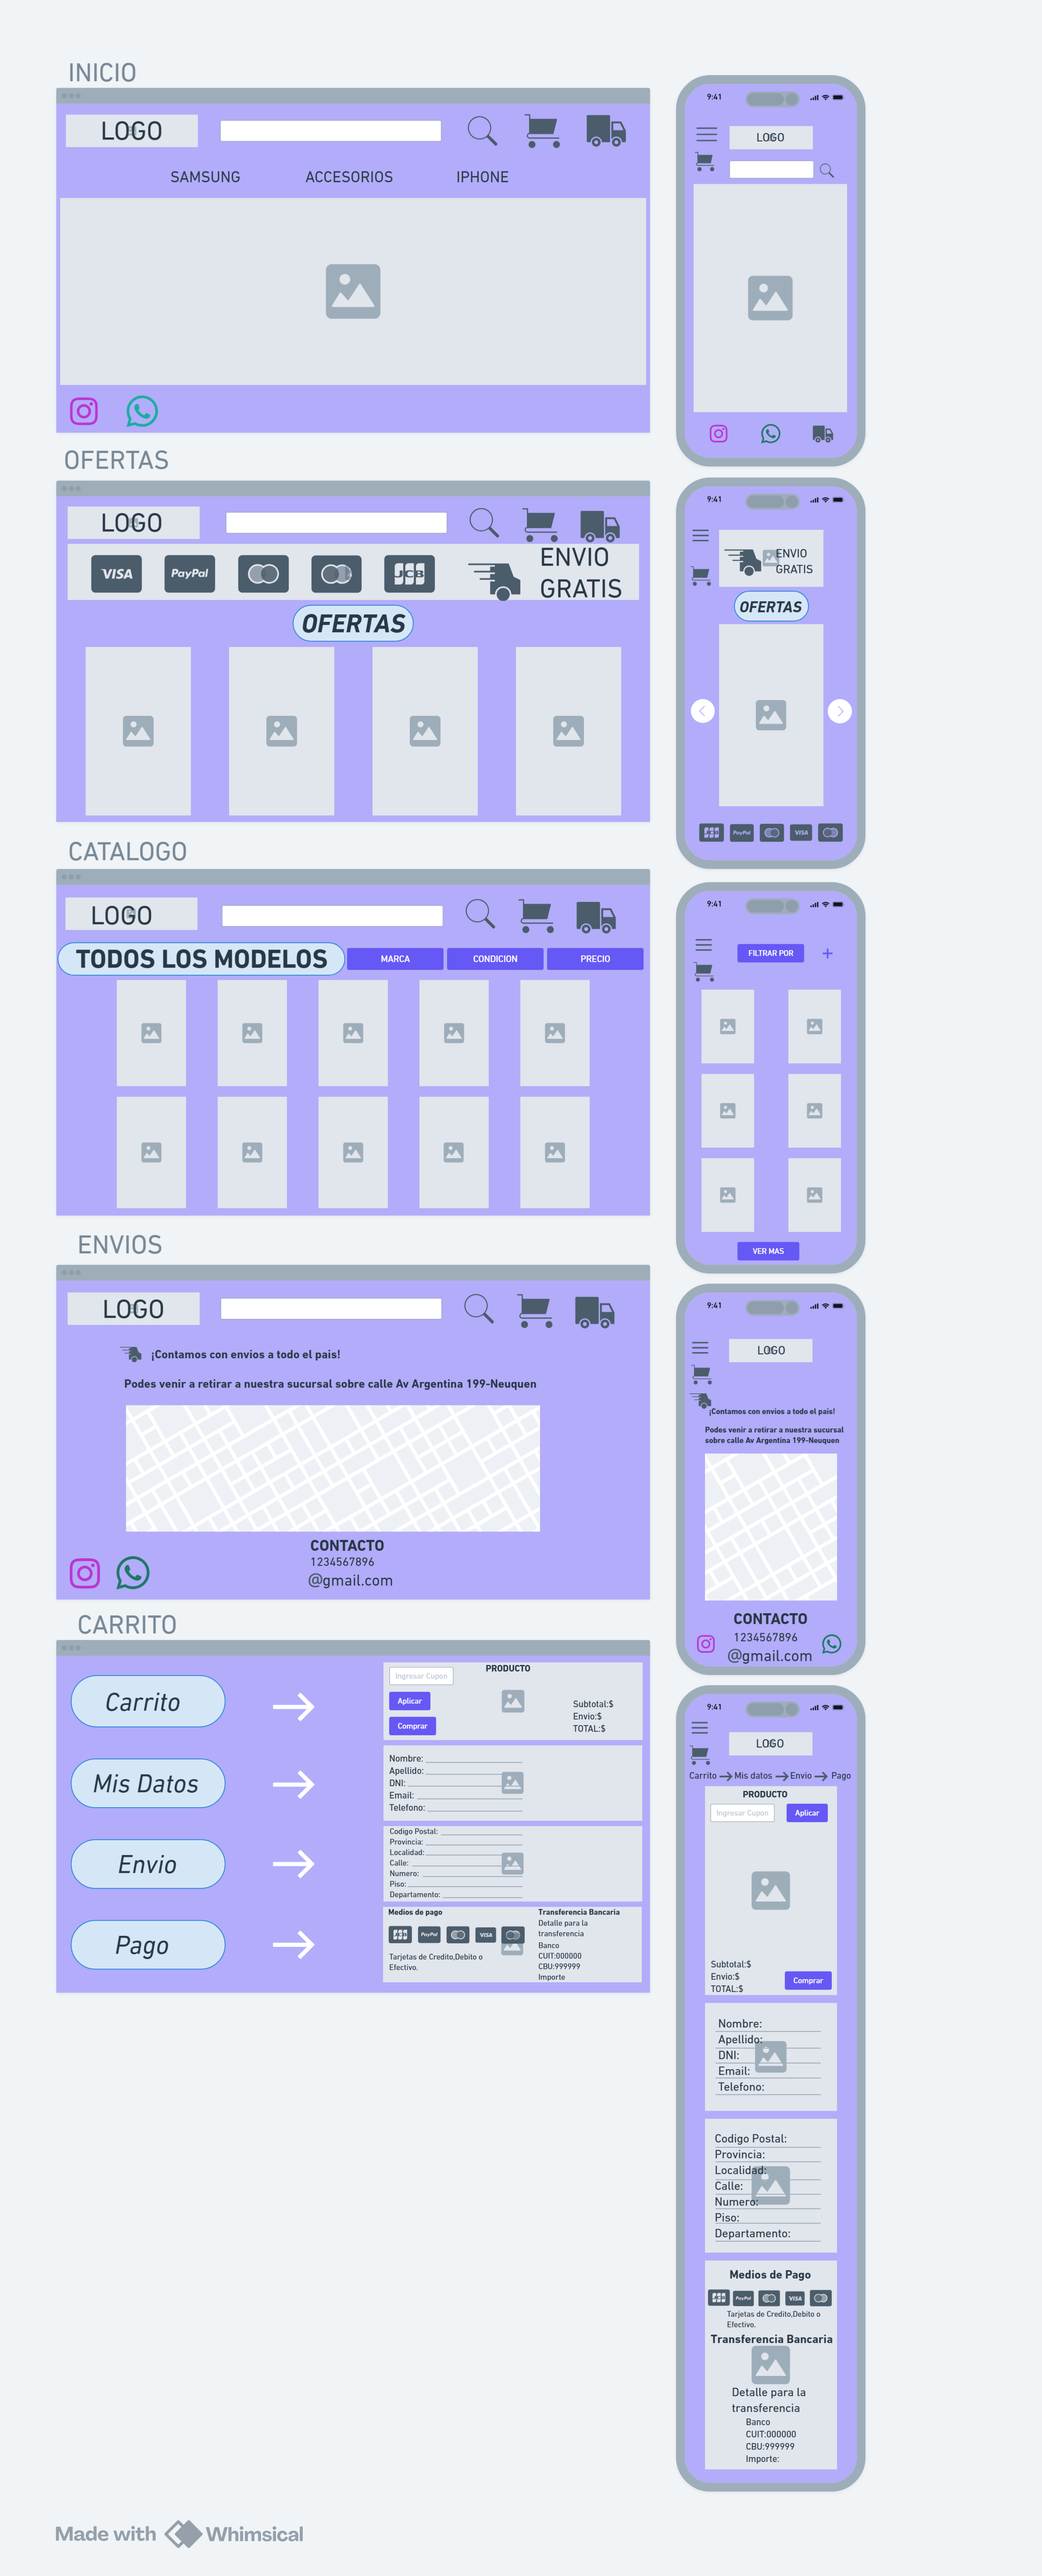
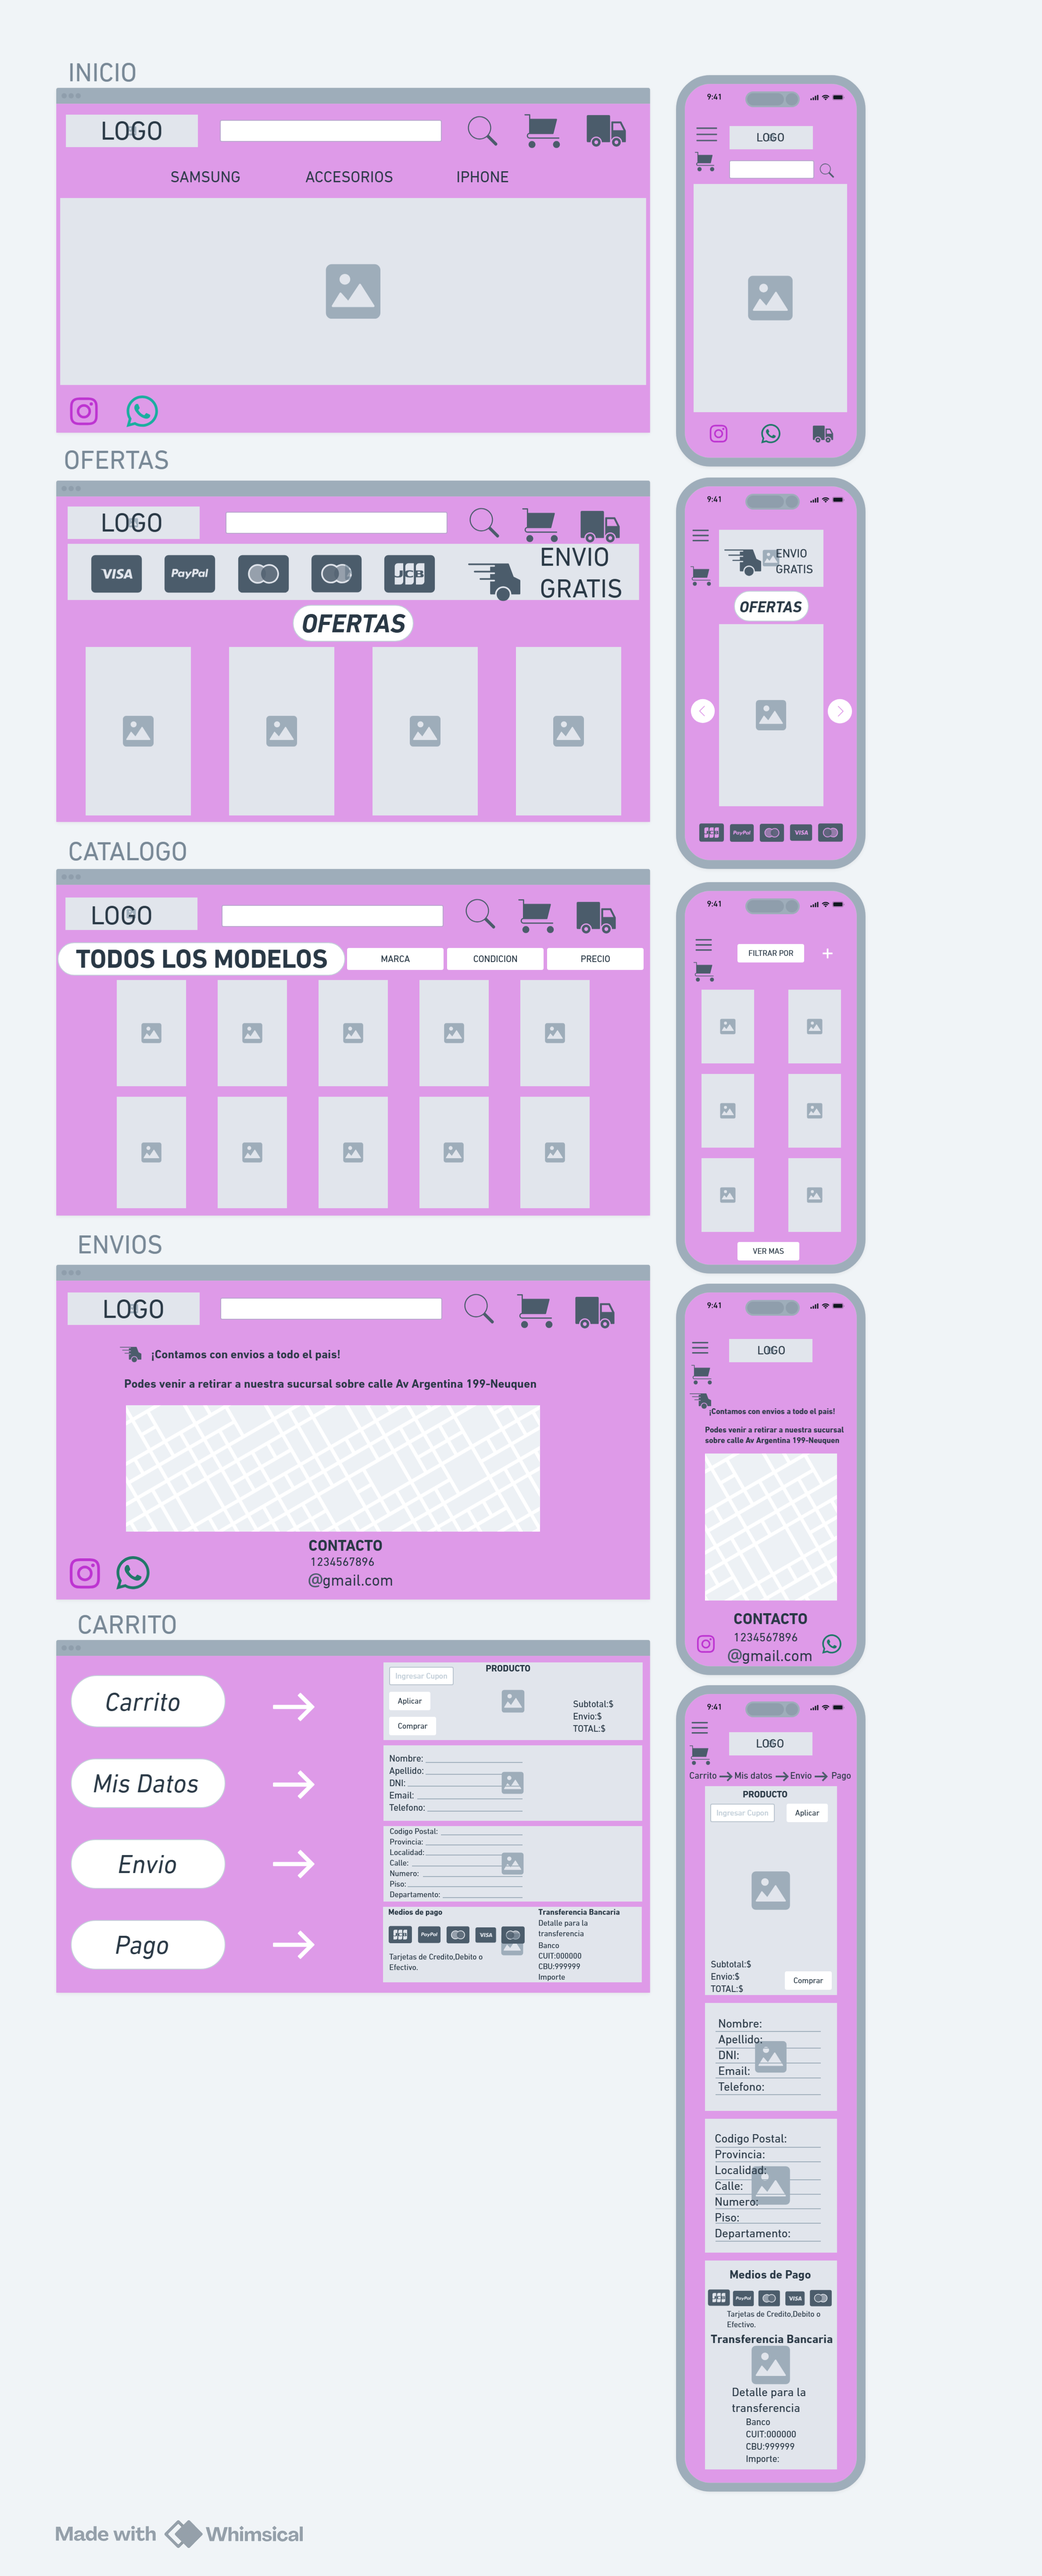
entrega n3 87900

Changed region(s): [[0.0312, 0.0312, 0.6232, 0.7794], [0.6543, 0.0312, 0.8413, 0.9664]]

diff --git a/scss/style.scss b/scss/style.scss
@@ -4,6 +4,7 @@
     src: url(../assets/fonts/Roboto-Bold.ttf);
 }
 
+/*Variables*/
 $tipografia-ppal:'Poppins', sans-serif;
 $tipografia-secund: 'Roboto-Bold', sans-serif;
 
@@ -13,7 +14,7 @@ $tipografia-secund: 'Roboto-Bold', sans-serif;
     box-sizing: border-box;
 }
 
-/*extend*/
+/*Extend*/
 %iconos-redes {
     font-size: 30px;
 }
@@ -24,7 +25,7 @@ ul {
 }
 
 li>a {
-    color: rgb(55, 111, 214);
+    color: rgb(255, 255, 255);
     text-decoration: none;
     font-size: 20px;
     padding: 8px 12px;
@@ -32,13 +33,13 @@ li>a {
 }
 
 h1 {
-    color: rgb(131, 54, 167);
+    color: rgb(168, 83, 119);
 }
 
 body {
     text-align: center;
     background-size: contain;
-    background-color: rgb(183, 138, 224);
+    background-color: rgb(168, 83, 119);
     font-family: "Poppins", sans-serif;
     font-weight: 600;
     font-style: oblique;
@@ -47,7 +48,16 @@ body {
 
 #primerfondo {
     background-image: url(../assets/img/inicio.JPG);
-    height: 400px;
+    height: 500px;
+    margin: auto;
+    background-position: center;
+    background-repeat: no-repeat;
+    background-size: contain;
+}
+
+#quintofondo {
+    background-image: url(../assets/img/iphone14promax.JPG.jpg);
+    height: 500px;
     margin: auto;
     background-position: center;
     background-repeat: no-repeat;
@@ -55,7 +65,7 @@ body {
 }
 
 header, footer {
-    background-color: rgb(132, 54, 167);
+    background-color: rgb(119, 19, 61);
 }
 
 .fa-facebook {
@@ -71,16 +81,16 @@ header, footer {
 
 .fa-instagram { 
     @extend %iconos-redes;
-    color: rgb(255, 69, 171);
+    color: rgb(201, 19, 95);
    
 }
 
+/*Ejemplo Anidacion*/
 .img-scale {
     transition: transform 0.3 ease;
-}
-
-.img-scale:hover {
-    transform: scale(1.5, 1.5);
+    &:hover {
+        transform: scale(1.5, 1.5);
+    }
 }
 
 .gridArea {
@@ -90,7 +100,7 @@ header, footer {
     width: 90%;
     margin: auto;
     position: relative;
-    background-color: rgb(55, 111, 214);
+    background-color: rgb(80, 80, 80);
     padding: 10px;
     justify-items: center;
     align-items: center;
@@ -99,6 +109,10 @@ header, footer {
 img {
     max-width: 100%;
     height: auto;
+}
+
+.btn-pri {
+    background-color: rgb(119, 19, 61);
 }
 
 /*Inicio Desktop*/

diff --git a/css/style.css b/css/style.css
@@ -20,7 +20,7 @@ ul {
 }
 
 li > a {
-  color: rgb(55, 111, 214);
+  color: rgb(255, 255, 255);
   text-decoration: none;
   font-size: 20px;
   padding: 8px 12px;
@@ -28,13 +28,13 @@ li > a {
 }
 
 h1 {
-  color: rgb(131, 54, 167);
+  color: rgb(168, 83, 119);
 }
 
 body {
   text-align: center;
   background-size: contain;
-  background-color: rgb(183, 138, 224);
+  background-color: rgb(168, 83, 119);
   font-family: "Poppins", sans-serif;
   font-weight: 600;
   font-style: oblique;
@@ -43,7 +43,16 @@ body {
 
 #primerfondo {
   background-image: url(../assets/img/inicio.JPG);
-  height: 400px;
+  height: 500px;
+  margin: auto;
+  background-position: center;
+  background-repeat: no-repeat;
+  background-size: contain;
+}
+
+#quintofondo {
+  background-image: url(../assets/img/iphone14promax.JPG.jpg);
+  height: 500px;
   margin: auto;
   background-position: center;
   background-repeat: no-repeat;
@@ -51,7 +60,7 @@ body {
 }
 
 header, footer {
-  background-color: rgb(132, 54, 167);
+  background-color: rgb(119, 19, 61);
 }
 
 .fa-facebook {
@@ -63,13 +72,13 @@ header, footer {
 }
 
 .fa-instagram {
-  color: rgb(255, 69, 171);
+  color: rgb(201, 19, 95);
 }
 
+/*Ejemplo Anidacion*/
 .img-scale {
   transition: transform 0.3 ease;
 }
-
 .img-scale:hover {
   transform: scale(1.5, 1.5);
 }
@@ -81,7 +90,7 @@ header, footer {
   width: 90%;
   margin: auto;
   position: relative;
-  background-color: rgb(55, 111, 214);
+  background-color: rgb(80, 80, 80);
   padding: 10px;
   justify-items: center;
   align-items: center;
@@ -90,6 +99,10 @@ header, footer {
 img {
   max-width: 100%;
   height: auto;
+}
+
+.btn-pri {
+  background-color: rgb(119, 19, 61);
 }
 
 /*Inicio Desktop*/

diff --git a/pages/catalogo.html b/pages/catalogo.html
@@ -40,16 +40,16 @@
             <img class="img-scale" src="../assets/img/samsungs22plus.JPG" width="150px" alt="samsung22plus">
             <img class="img-scale" src="../assets/img/samsungnote20ultra.JPG.jpg" width="150px" alt="samsungnote20ultra">
             <img class="img-scale" src="../assets/img/samsungnote10plus.JPG" width="150px" alt="samsungnote10plus">
-            <img class="img-scale" src="../assets/img/samsungs21ultra.JPG" width="160px" alt="samsungs21ultra">
+            <img class="img-scale" src="../assets/img/samsung21ultra.JPG" width="160px" alt="samsungs21ultra">
             <img class="img-scale" src="../assets/img/samsungfold4.JPG.jpg" width="150px" alt="samsungfold4">
         </section>
     </main>
     
     <footer class="text-center p-3">
         <div class="iconos-redes">
-            <a href="" target="_blank"><i class="fa-brands fa-facebook"></i></a>
+            <a href="https://www.facebook.com/zelu.nqn" target="_blank"><i class="fa-brands fa-facebook"></i></a>
             <a href="" target="_blank"><i class="fa-brands fa-whatsapp"></i></a>
-            <a href="" target="_blank"><i class="fa-brands fa-instagram"></i></a>
+            <a href="https://www.instagram.com/zelu.nqn" target="_blank"><i class="fa-brands fa-instagram"></i></a>
         </div>
     </footer>
 

diff --git a/pages/envios.html b/pages/envios.html
@@ -31,17 +31,21 @@
 
     <main class="container text-center">
         <h1>Envios</h1>
-        <h2>Ofrecemos envios a todo el pais</h2>
+        <h2>Contamos con envios a todo el pais</h2>
+        <p>Podes venir a retirar a nuestra sucursal sobre calle Av Argentina 199-Neuquen</p>
         <section id="cuartofondo">
-            <img src="../assets/img/envios.JPG" class="img-fluid rounded shadow" alt="envios">
+            <img src="../assets/img/envios.JPG" class="img-fluid rounded shadow" width="600px" alt="envios">
         </section>
+        <h3>CONTACTO</h3>
+        <h4>1234567896</h4>
+        <h5>@gmail.com</h5>
     </main>
 
     <footer class="text-center p-3">
         <div class="iconos-redes">
-            <a href="" target="_blank"><i class="fa-brands fa-facebook"></i></a>
+            <a href="https://www.facebook.com/zelu.nqn" target="_blank"><i class="fa-brands fa-facebook"></i></a>
             <a href="" target="_blank"><i class="fa-brands fa-whatsapp"></i></a>
-            <a href="" target="_blank"><i class="fa-brands fa-instagram"></i></a>
+            <a href="https://www.instagram.com/zelu.nqn" target="_blank"><i class="fa-brands fa-instagram"></i></a>
         </div>
     </footer>
 

diff --git a/pages/carrito.html b/pages/carrito.html
@@ -33,15 +33,19 @@
         <h1>Mi Carrito</h1>
         <h2>Ultimos pasos para finalizar la compra</h2>
         <section id="quintofondo">
-            <img src="../assets/img/carrito.JPG" class="img-fluid rounded shadow" alt="carrito">
+            <!-- <img src="../assets/img/iphone14promax.JPG.jpg" width="300px" class="img-fluid rounded shadow" alt="iphone14promax"> -->
         </section>
+        <div class="d-grid gap-2 col-6 mx-auto">
+  <button class="btn-pri" type="button">VOLVER</button>
+  <button class="btn-sec" type="button">SEGUIR COMPRANDO</button>
+</div>
     </main>
 
     <footer class="text-center p-3">
         <div class="iconos-redes">
-            <a href="" target="_blank"><i class="fa-brands fa-facebook"></i></a>
+            <a href="https://www.facebook.com/zelu.nqn" target="_blank"><i class="fa-brands fa-facebook"></i></a>
             <a href="" target="_blank"><i class="fa-brands fa-whatsapp"></i></a>
-            <a href="" target="_blank"><i class="fa-brands fa-instagram"></i></a>
+            <a href="https://www.instagram.com/zelu.nqn" target="_blank"><i class="fa-brands fa-instagram"></i></a>
         </div>
     </footer>
 

diff --git a/index.html b/index.html
@@ -34,15 +34,15 @@
         <h1>Inicio</h1>
         <h2>Bienvenido somos ZeluNQN</h2>
         <section id="primerfondo">
-            <!-- <img src="./assets/img/inicio.JPG" width="600px" alt="inicio"> -->
+            <!-- <img src="./assets/img/inicio.JPG" width="500px" alt="inicio"> -->
         </section>
     </main>
 
     <footer class="text-center p-3">
         <div class="iconos-redes">
-            <a href="" target="_blank"><i class="fa-brands fa-facebook"></i></a>
+            <a href="https://www.facebook.com/zelu.nqn" target="_blank"><i class="fa-brands fa-facebook"></i></a>
             <a href="" target="_blank"><i class="fa-brands fa-whatsapp"></i></a>
-            <a href="" target="_blank"><i class="fa-brands fa-instagram"></i></a>
+            <a href="https://www.instagram.com/zelu.nqn" target="_blank"><i class="fa-brands fa-instagram"></i></a>
         </div>
     </footer>
 

diff --git a/pages/ofertas.html b/pages/ofertas.html
@@ -61,9 +61,9 @@
 
     <footer class="text-center p-3">
         <div class="iconos-redes">
-            <a href="" target="_blank"><i class="fa-brands fa-facebook"></i></a>
+            <a href="https://www.facebook.com/zelu.nqn" target="_blank"><i class="fa-brands fa-facebook"></i></a>
             <a href="" target="_blank"><i class="fa-brands fa-whatsapp"></i></a>
-            <a href="" target="_blank"><i class="fa-brands fa-instagram"></i></a>
+            <a href="https://www.instagram.com/zelu.nqn" target="_blank"><i class="fa-brands fa-instagram"></i></a>
         </div>
     </footer>
 
